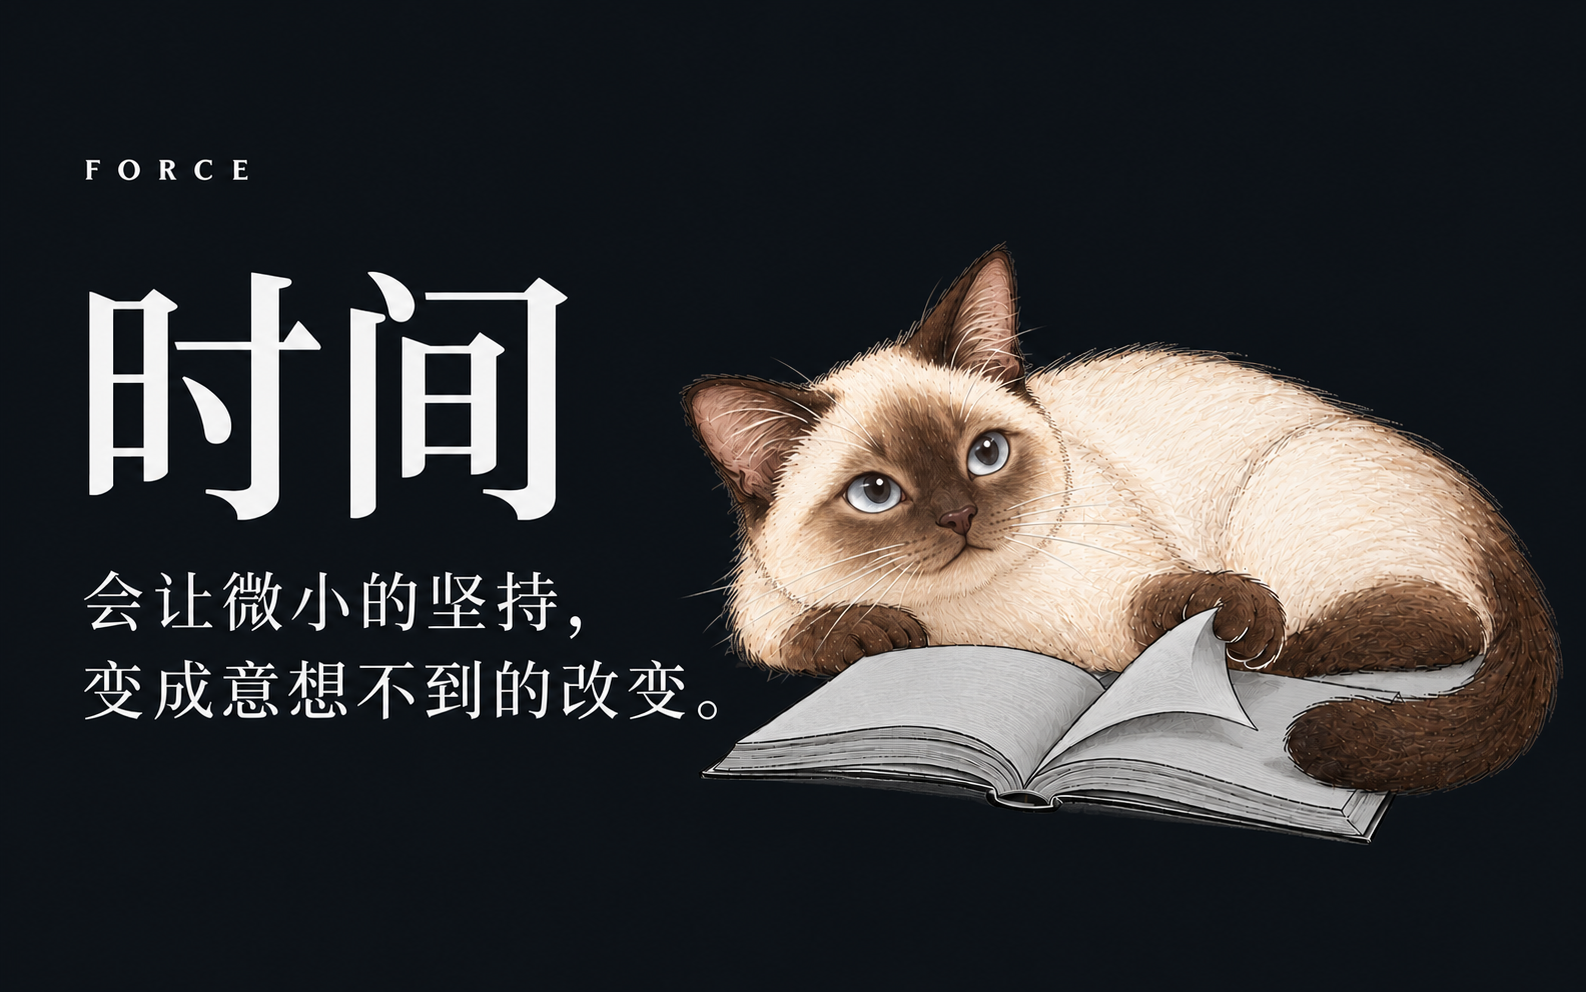
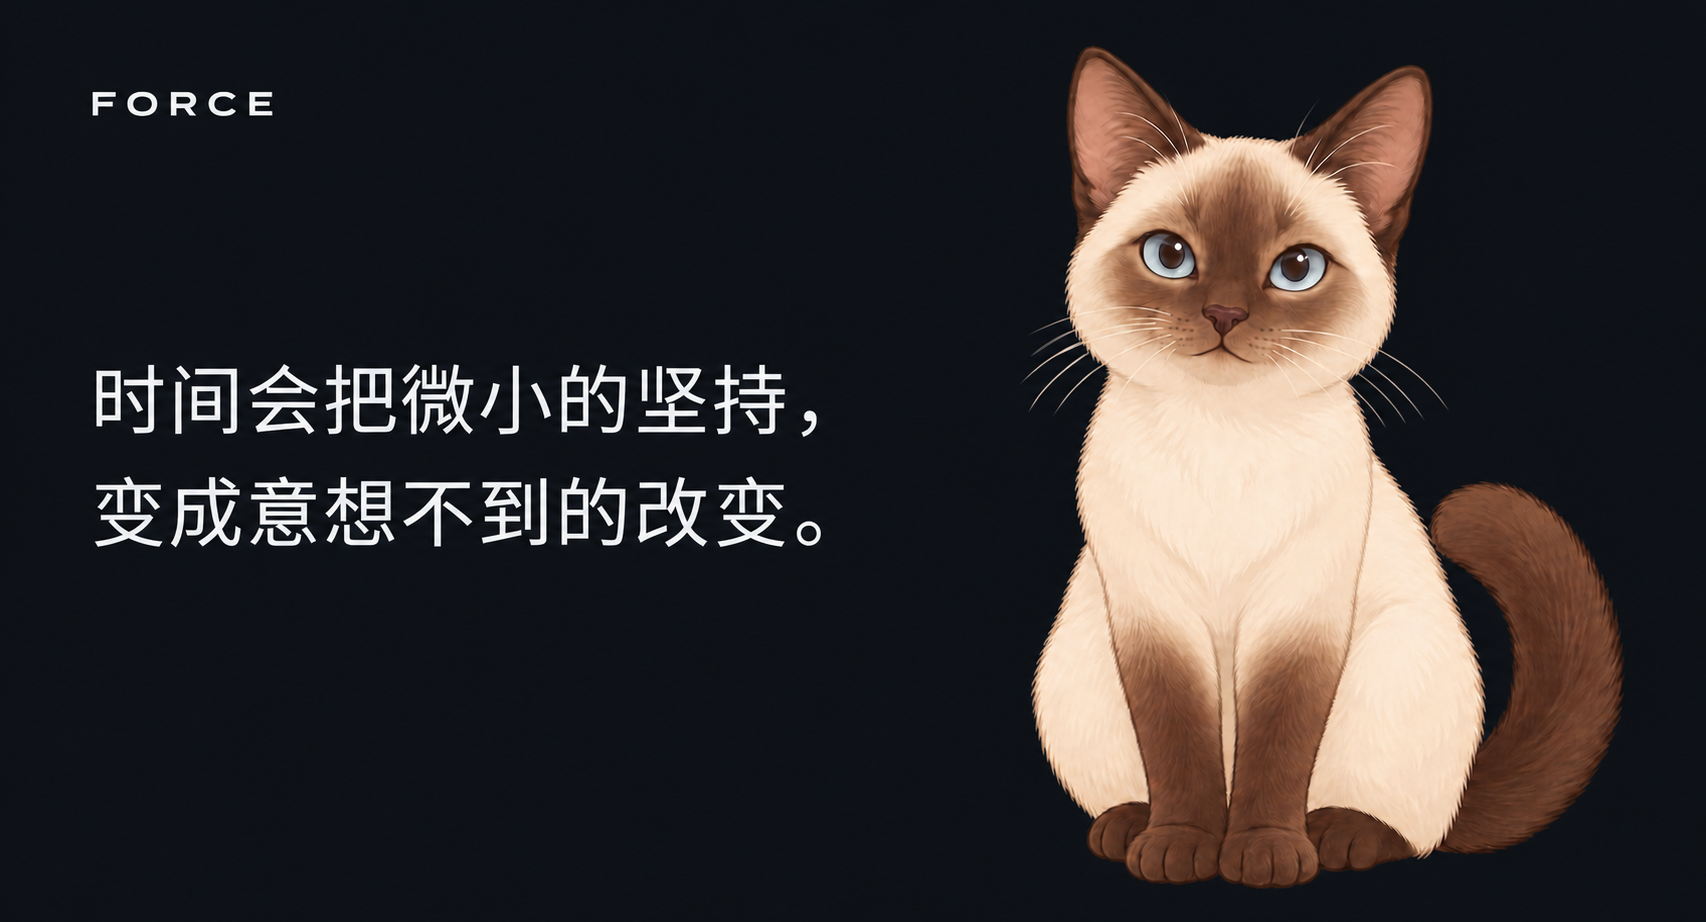
docs: align README cover with the desktop Siamese cat

diff --git a/assets/README.md b/assets/README.md
@@ -9,7 +9,7 @@
 - `wordmark-lettering.svg`：原有 FORCE 字形路径，不依赖字体。
 - `icon.png` / `Force.icns` / `Force.ico`：头像配白色圆角底的应用图标；ICO 包含 16、32、48、256 px。
 - `cat-side-expanded-clock.svg` / `cat-side-expanded-clock-outline.svg`：独立的中性深色控制面板及轮廓，展开时不拉伸猫的身体。
-- `readme-cover.png` / `readme-cover-dark.png`：书封式插画，句子和读书的暹罗猫在同一画面中。README 不额外重复 Logo 或句子。
+- `readme-cover.png` / `readme-cover-dark.png`：以桌面猫钟的坐姿角色为参考的封面，配两行现代黑体引句。README 不额外重复 Logo 或句子。
 
 角色和封面画稿由图像生成工具制作。修改角色时更新源画稿，再运行以下命令导出应用资源：
 
@@ -18,6 +18,6 @@ swift scripts/generate-brand-assets.swift
 swift scripts/generate-icons.swift
 ```
 
-第一步统一取景与尺寸并生成字标，第二步导出平台图标；不手工重画派生图。眨眼画稿需与坐姿画稿保持相同尺寸和位置，检查眼部覆盖与计时文字在真实猫钟里的效果。封面使用同一角色特征，按插画场景单独绘制。
+第一步统一取景与尺寸并生成字标，第二步导出平台图标；不手工重画派生图。眨眼画稿需与坐姿画稿保持相同尺寸和位置，检查眼部覆盖与计时文字在真实猫钟里的效果。封面以坐姿原稿为参考，保留短毛、脸型、灰蓝眼睛、深色前爪与右侧卷尾；不另画不同体型或笔触的猫。明暗版保持同一句文案与排版。
 
 README 明暗图片通过链接上的 `#gh-light-mode-only` / `#gh-dark-mode-only` 跟随 GitHub 页面主题。验收需覆盖系统主题与 GitHub 主题相反的组合；仅检查本地 `prefers-color-scheme` 不能证明 GitHub 显示正确。

diff --git a/README.md b/README.md
@@ -1,8 +1,8 @@
 <p align="center">
   <a href="assets/readme-cover.png#gh-light-mode-only">
-    <img src="assets/readme-cover.png" width="100%" alt="Force — 时间会让微小的坚持，变成意想不到的改变。一只略显呆萌的暹罗猫趴在打开的书旁。" />
+    <img src="assets/readme-cover.png" width="100%" alt="Force — 时间会把微小的坚持，变成意想不到的改变。一只奶油色短毛、灰蓝眼睛的坐姿暹罗猫。" />
   </a>
   <a href="assets/readme-cover-dark.png#gh-dark-mode-only">
-    <img src="assets/readme-cover-dark.png" width="100%" alt="Force — 时间会让微小的坚持，变成意想不到的改变。一只略显呆萌的暹罗猫趴在打开的书旁。" />
+    <img src="assets/readme-cover-dark.png" width="100%" alt="Force — 时间会把微小的坚持，变成意想不到的改变。一只奶油色短毛、灰蓝眼睛的坐姿暹罗猫。" />
   </a>
 </p>
